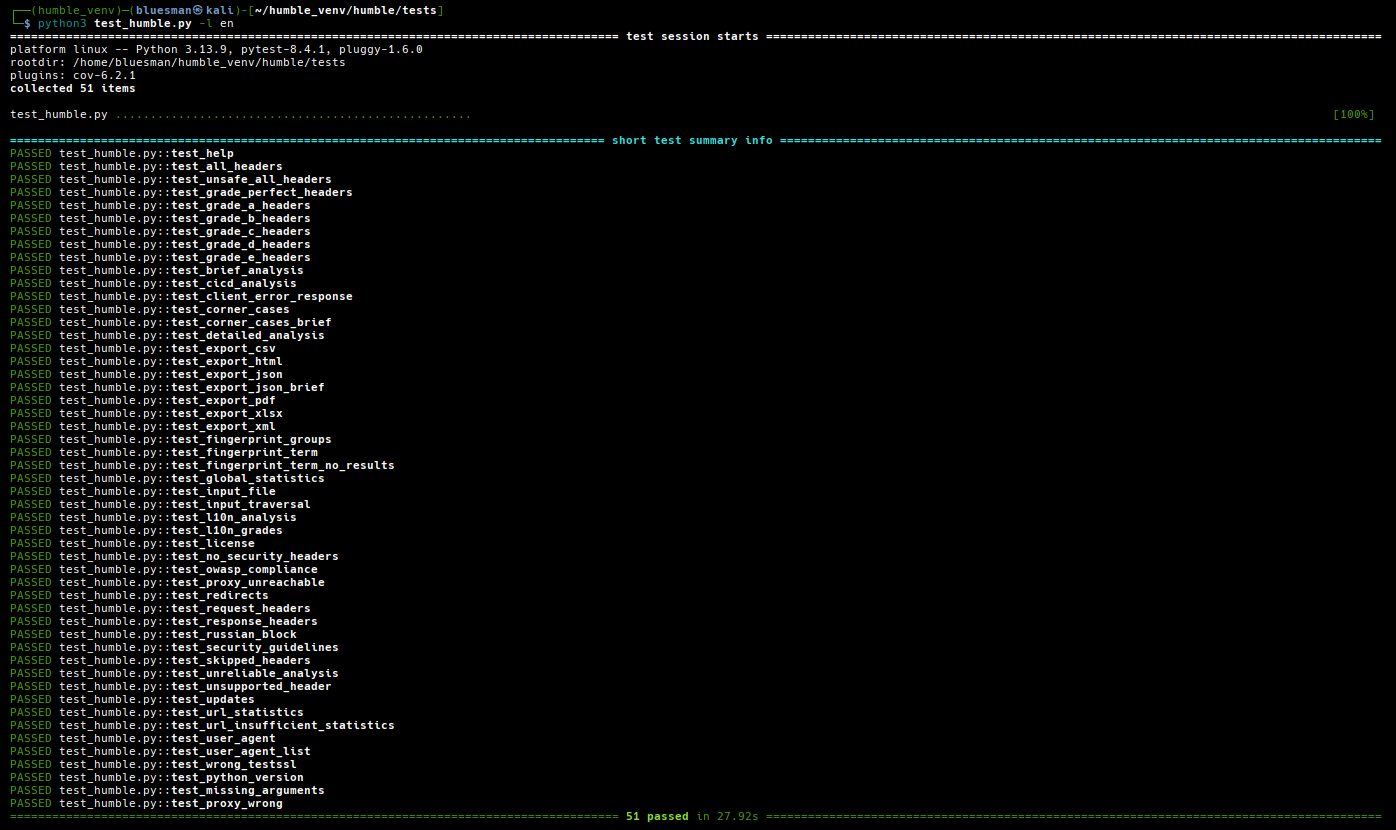
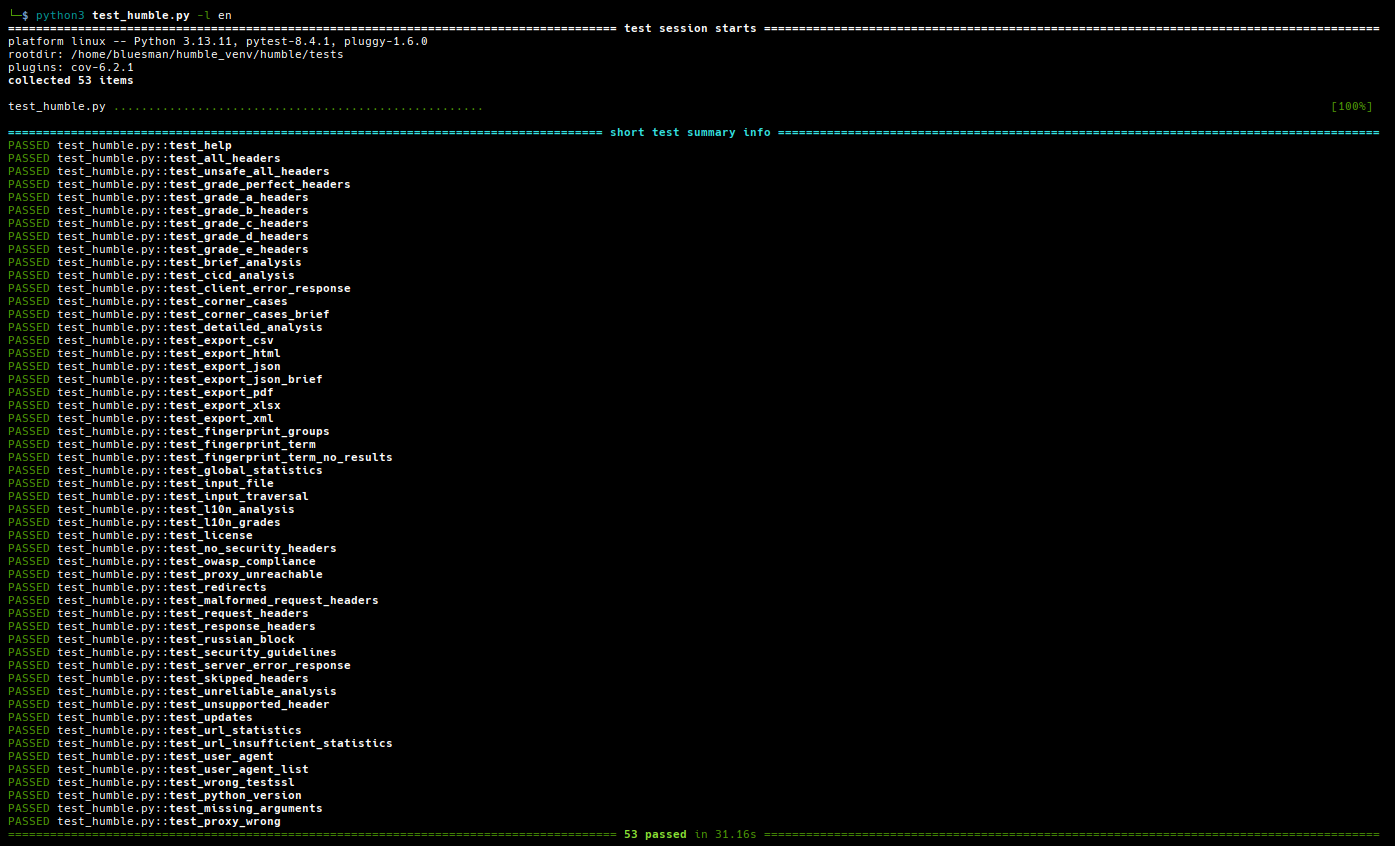
Feature: 2 new unit tests and 92% code coverage

Changed region(s): [[0.0, 0.0, 0.9864, 0.994]]

diff --git a/tests/test_humble.py b/tests/test_humble.py
@@ -49,7 +49,8 @@ TEST_URLS = ('https://github.com/rfc-st/humble',
              'http://github.com', 'https://humbletestingnosecheaders.com',
              'https://en.wikipedia.org', 'https://microsoft.com',
              'http://127.0.0.1:65535', 'https://tass.ru/',
-             'https://google.com', 'https://httpbin.org/delay/10')
+             'https://google.com', 'https://httpbin.org/delay/10',
+             'https://httpbin.org/status/502')
 HUMBLE_WRONG_TESTSSL_DIR = '/dev/'
 REQUIRED_PYTHON = (3, 11)
 TEST_CFGS = {
@@ -108,6 +109,8 @@ TEST_CFGS = {
     'test_proxy_unreachable': (['-u', TEST_URLS[9], '-p', TEST_URLS[7]],
                                'reachable'),
     'test_redirects': (['-u', TEST_URLS[9], '-df'], 'Analysis Grade:'),
+    'test_malformed_request_headers': (
+        ['-u', TEST_URLS[9], '-H', 'Cache-Control no-cache'], 'malformed'),
     'test_request_headers': (
         ['-u', TEST_URLS[9], '-H', 'Cache-Control: no-cache', '-H',
          'If-Modified-Since: Wed, 21 Oct 2020 00:00:00 GMT'],
@@ -117,6 +120,7 @@ TEST_CFGS = {
                               'HTTP Response Headers'),
     'test_russian_block': (['-u', TEST_URLS[8]], 'withdraws'),
     'test_security_guidelines': (['-g'], 'headers-in-wordpress'),
+    'test_server_error_response': (['-u', TEST_URLS[11]], 'Server'),
     'test_skipped_headers': (['-u', TEST_URLS[9], '-s', 'ETAG', 'NEL'],
                              'expressly excluded'),
     'test_unreliable_analysis': (['-u', TEST_URLS[10]], 'reliable'),
@@ -150,9 +154,10 @@ TEST_SUMMS = ('[test_help]', '[test_all_headers]', '[test_unsafe_all_headers]',
               '[test_l10n_analysis]', '[test_l10n_grades]', '[test_license]',
               '[test_no_security_headers]', '[test_owasp_compliance]',
               '[test_proxy_unreachable]', '[test_proxy_wrong]',
-              '[test_redirects]', '[test_request_headers]',
-              '[test_response_headers]', '[test_russian_block]',
-              '[test_security_guidelines]', '[test_skipped_headers]',
+              '[test_redirects]', '[test_malformed_request_headers]',
+              '[test_request_headers]', '[test_response_headers]',
+              '[test_russian_block]', '[test_security_guidelines]',
+              '[test_server_error_response]', '[test_skipped_headers]',
               '[test_unreliable_analysis]', '[test_unsupported_header]',
               '[test_updates]', '[test_url_statistics]',
               '[test_url_insufficient_statistics]', '[test_user_agent]',
@@ -416,7 +421,7 @@ def cleanup_analysis_history():
             fsync(original_file.fileno())
 
 
-local_version = datetime.strptime('2025-12-20', '%Y-%m-%d').date()
+local_version = datetime.strptime('2025-12-24', '%Y-%m-%d').date()
 parser = ArgumentParser(
     formatter_class=lambda prog: RawDescriptionHelpFormatter(
         prog, max_help_position=34

diff --git a/humble.py b/humble.py
@@ -176,7 +176,7 @@ XFRAME_CHECK = 'X-Frame-Options ('
 XML_STRING = ('Ref: ', 'Value: ', 'Valor: ')
 
 current_time = datetime.now().strftime("%Y/%m/%d - %H:%M:%S")
-local_version = datetime.strptime('2025-12-20', '%Y-%m-%d').date()
+local_version = datetime.strptime('2025-12-24', '%Y-%m-%d').date()
 
 BANNER_VERSION = f'{URL_LIST[4]} | v.{local_version}'
 

diff --git a/README.md b/README.md
@@ -6,7 +6,7 @@
 <a target="_blank" href="https://devguide.python.org/versions/" title="Minimum Python version required to run this tool"><img src="https://img.shields.io/badge/Python-%3E%3D3.11-blue?labelColor=343b41"></a>
 <a target="_blank" href="LICENSE" title="License of this tool"><img src="https://img.shields.io/badge/License-MIT-blue.svg?labelColor=343b41"></a>
 <a target="_blank" href="https://github.com/rfc-st/humble/releases" title="Latest release of this tool"><img src="https://img.shields.io/github/v/release/rfc-st/humble?display_name=release&label=Latest%20Release&labelColor=343b41"></a>
-<a target="_blank" href="https://github.com/rfc-st/humble/commits/master" title="Latest commit of this tool"><img src="https://img.shields.io/badge/Latest_Commit-2025--12--20-blue.svg?labelColor=343b41"></a>
+<a target="_blank" href="https://github.com/rfc-st/humble/commits/master" title="Latest commit of this tool"><img src="https://img.shields.io/badge/Latest_Commit-2025--12--24-blue.svg?labelColor=343b41"></a>
 <a target="_blank" href="https://pkg.kali.org/pkg/humble" title="Official tool in Kali Linux"><img src="https://img.shields.io/badge/Kali%20Linux-Tool-blue?labelColor=343b41"></a>
 <br />
 <a target="_blank" href="#" title="Featured on:"><img src="https://img.shields.io/badge/Featured%20on:-343b41"></a>
@@ -23,7 +23,7 @@
 <a target="_blank" href="https://github.com/rfc-st/humble/actions/workflows/bandit-security-scan.yml" title="Results of the last analysis of this tool with bandit, for critical or high vulnerabilities"><img src="https://github.com/rfc-st/humble/actions/workflows/bandit-security-scan.yml/badge.svg"></a>
 <a target="_blank" href="https://github.com/rfc-st/humble/actions/workflows/codeql-analysis.yml?query=workflow%3ACodeQL" title="CodeQL security analysis passed"><img src="https://github.com/rfc-st/humble/workflows/CodeQL/badge.svg"></a>
 <a target="_blank" href="https://humble.readthedocs.io/en/latest/" title="humble documentation status"><img src="https://img.shields.io/badge/documentation-passing-32bd50?labelColor=343b41"></a>
-<a target="_blank" href="https://github.com/rfc-st/humble/?tab=readme-ov-file#unit-tests" title="humble code coverage"><img src="https://img.shields.io/badge/code%20coverage-91%25-32bd50?labelColor=343b41"></a>
+<a target="_blank" href="https://github.com/rfc-st/humble/?tab=readme-ov-file#unit-tests" title="humble code coverage"><img src="https://img.shields.io/badge/code%20coverage-92%25-32bd50?labelColor=343b41"></a>
 <a target="_blank" href="https://www.bestpractices.dev/projects/9543" title="OpenSSF best practices analysis"><img src="https://www.bestpractices.dev/projects/9543/badge"></a>
 <br />
 <br />
